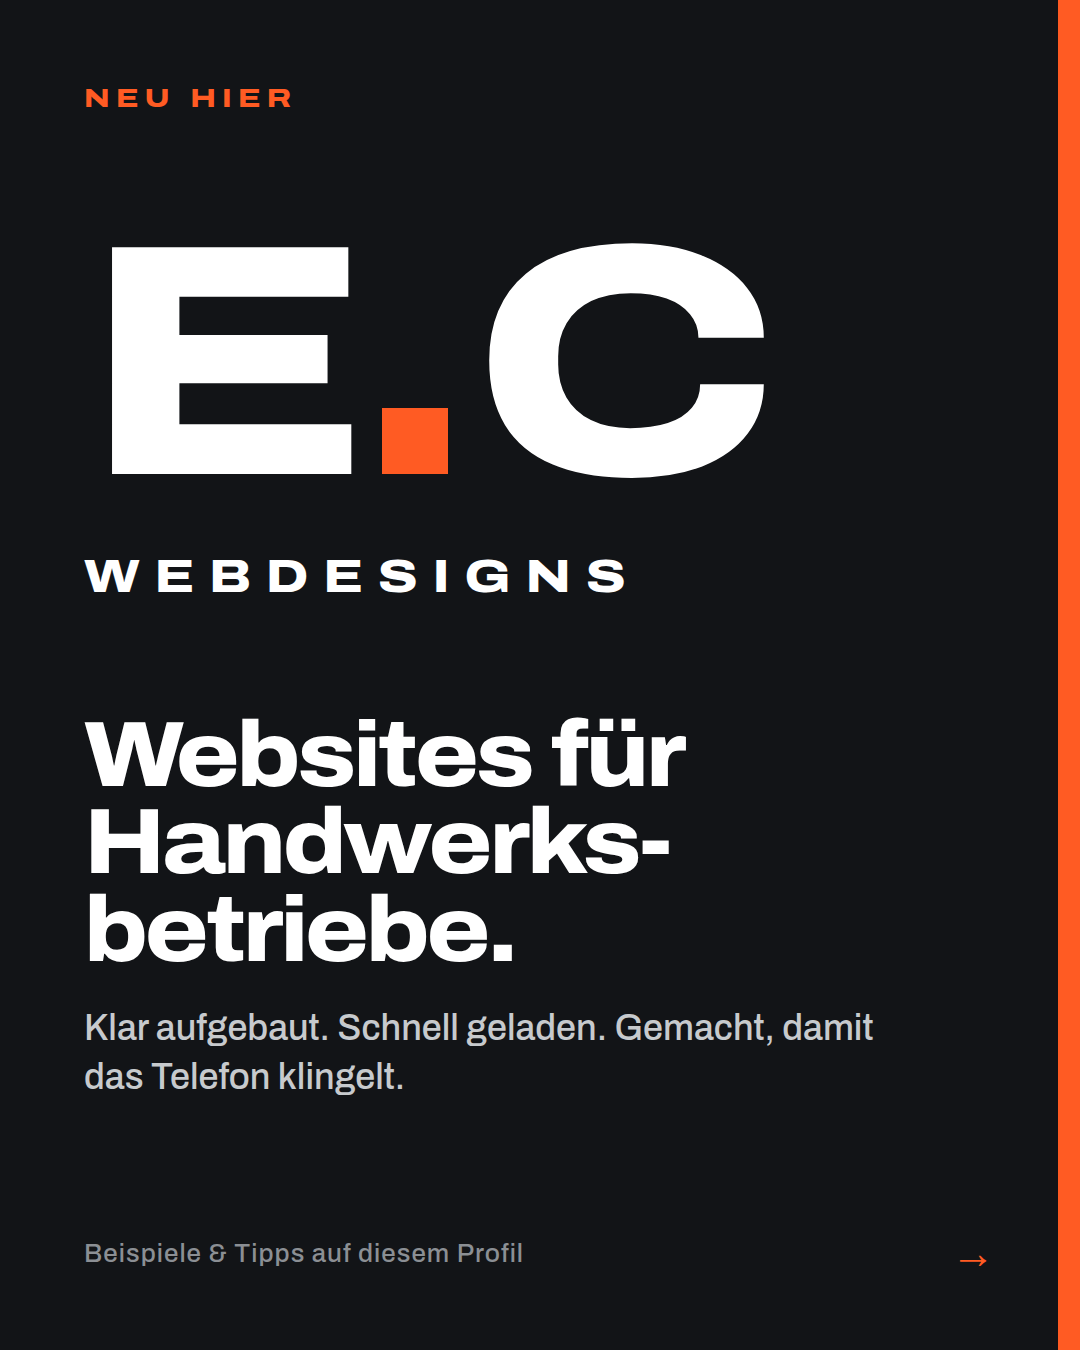
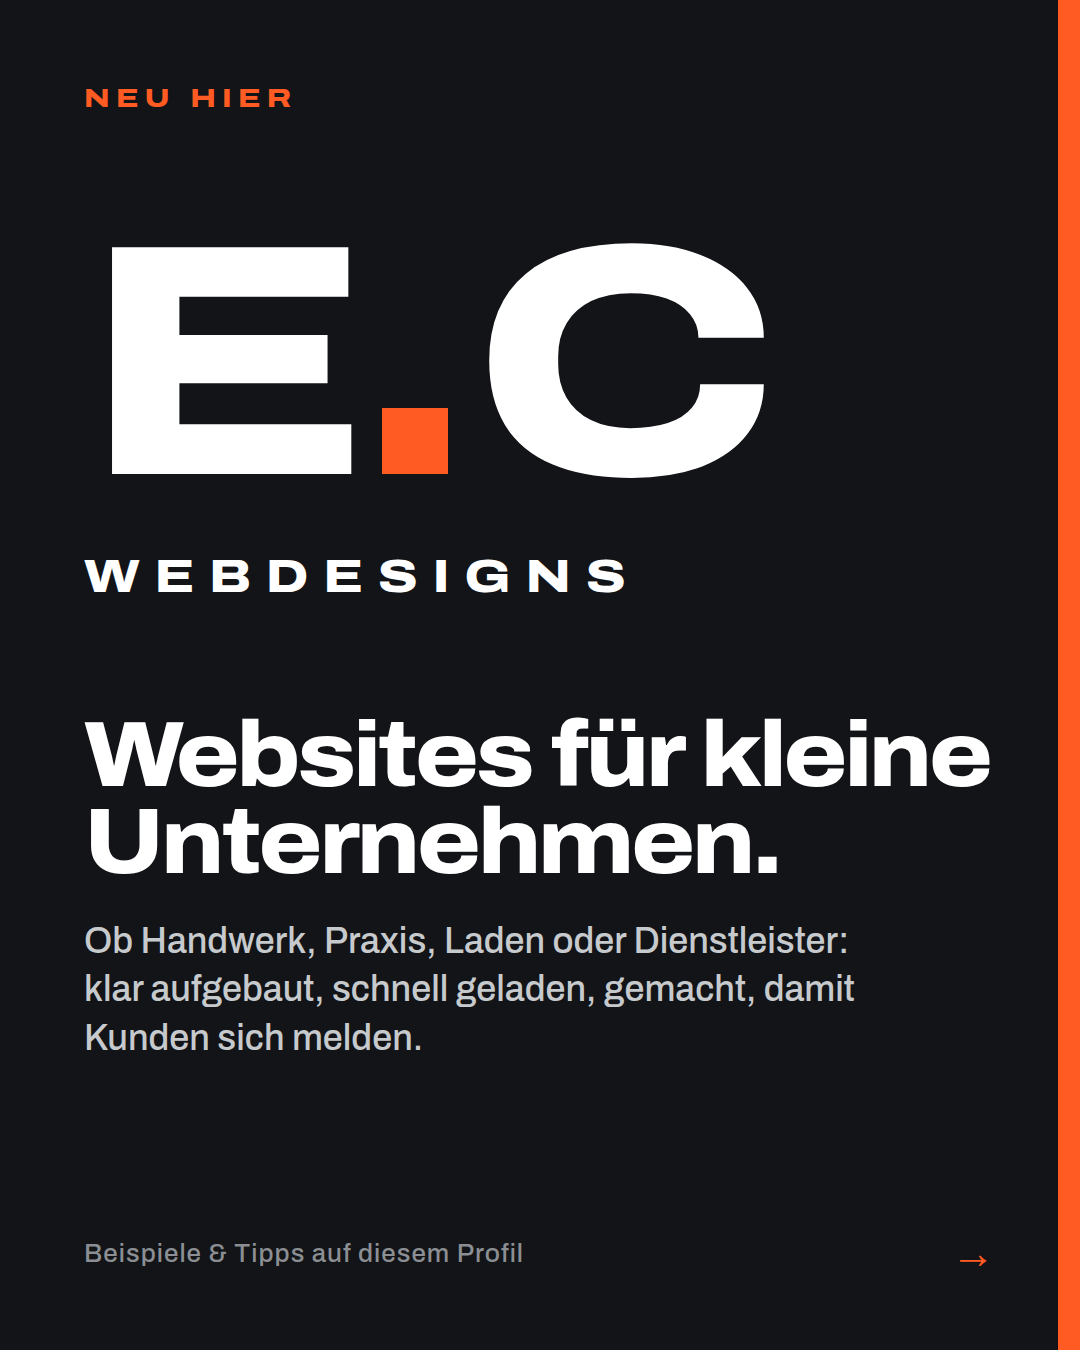
feat(websites): address all small businesses in E.C Webdesigns posts
Posts, template description and README now speak to small businesses
in general (craft, practice, shop, services) instead of craft
businesses only.

Claude-Session: https://claude.ai/code/session_01RHVpRYLJSHA9L4gBfn1BMS

Changed region(s): [[0.0611, 0.5289, 0.9167, 0.8089]]

diff --git a/websites/ec-webdesigns/instagram/src/posts.html b/websites/ec-webdesigns/instagram/src/posts.html
@@ -91,8 +91,8 @@ body { background: #555; font-family: "Archivo", Arial, sans-serif; font-weight:
   <p class="kicker">Neu hier</p>
   <div class="mono big">E<i></i>C</div>
   <p class="word">Webdesigns</p>
-  <h1 class="h">Websites für Handwerks&shy;betriebe.</h1>
-  <p class="sub">Klar aufgebaut. Schnell geladen. Gemacht, damit das Telefon klingelt.</p>
+  <h1 class="h">Websites für kleine Unter&shy;nehmen.</h1>
+  <p class="sub">Ob Handwerk, Praxis, Laden oder Dienstleister: klar aufgebaut, schnell geladen, gemacht, damit Kunden sich melden.</p>
   <div class="foot"><span>Beispiele &amp; Tipps auf diesem Profil</span><span style="color:var(--orange);font-size:44px">→</span></div>
 </section>
 
@@ -102,7 +102,7 @@ body { background: #555; font-family: "Archivo", Arial, sans-serif; font-weight:
   <h1 class="h">Der erste Eindruck zählt.</h1>
   <p class="sub" style="color:#4a4e53">Ihre Website zeigt, wer Sie sind, was Sie können und wie man Sie erreicht – auf einen Blick.</p>
   <div class="laptop"><div class="scr"><img src="shot-desktop.jpg" alt=""></div><div class="base"></div></div>
-  <div class="foot"><span class="mono">E<i></i>C</span><span>Vorlage: Tischlerei (fiktiv)</span></div>
+  <div class="foot"><span class="mono">E<i></i>C</span><span>Beispiel: Tischlerei (fiktiv)</span></div>
 </section>
 
 <!-- 3: Handy -->
@@ -135,7 +135,7 @@ body { background: #555; font-family: "Archivo", Arial, sans-serif; font-weight:
   <p class="kicker" style="color:var(--orange)">So einfach geht's</p>
   <h1 class="h">In 3 Schritten online.</h1>
   <div class="steps">
-    <div><em>1</em><p><strong>Kurzes Gespräch</strong><span>Sie erzählen von Ihrem Betrieb.</span></p></div>
+    <div><em>1</em><p><strong>Kurzes Gespräch</strong><span>Sie erzählen von Ihrem Unternehmen.</span></p></div>
     <div><em>2</em><p><strong>Entwurf ansehen</strong><span>Sie sehen Ihre Seite, bevor Sie sich entscheiden.</span></p></div>
     <div><em>3</em><p><strong>Online gehen</strong><span>Wir kümmern uns um die Technik.</span></p></div>
   </div>

diff --git a/websites/ec-webdesigns/vorlage/index.html b/websites/ec-webdesigns/vorlage/index.html
@@ -4,10 +4,10 @@
 <meta charset="utf-8">
 <meta name="viewport" content="width=device-width, initial-scale=1">
 <title>Tischlerei Brandt – Möbel nach Maß</title>
-<meta name="description" content="Website-Vorlage für Handwerksbetriebe von E.C Webdesigns. Beispielbetrieb: Tischlerei Brandt (fiktiv).">
+<meta name="description" content="Website-Vorlage für kleine Unternehmen von E.C Webdesigns. Beispielbetrieb: Tischlerei Brandt (fiktiv).">
 <style>
 /* ==========================================================================
-   E.C Webdesigns – Website-Vorlage für Handwerksbetriebe
+   E.C Webdesigns – Website-Vorlage für kleine Unternehmen
    Anpassen: Farben hier in :root, Texte im CONFIG-Block am Ende der Datei.
    Layout: geteilter Hero (Text links, Werkstattbild rechts), Leistungen als
    nummerierte Liste, Ablauf als Zeitleiste, Formular mit Kontaktkarte.

diff --git a/websites/ec-webdesigns/README.md b/websites/ec-webdesigns/README.md
@@ -8,7 +8,7 @@
   der einzelnen `<section>`-Elemente rendern (1080 px breit).
 
 ## Website-Vorlage (`vorlage/`)
-Allgemeine Vorlage für Handwerksbetriebe, Beispiel: Tischlerei Brandt (fiktiv).
+Allgemeine Vorlage für kleine Unternehmen (Handwerk, Praxis, Laden, Dienstleister), Beispiel: Tischlerei Brandt (fiktiv).
 - Farben: oben im `<style>` unter `:root` (`--accent`, `--warm` …)
 - Texte, Leistungen, Ablauf, Bewertungen, Kontaktdaten: im `CONFIG`-Block am Ende der Datei
 - Schriften liegen lokal in `fonts/` (keine Verbindung zu Google, DSGVO-freundlich)
